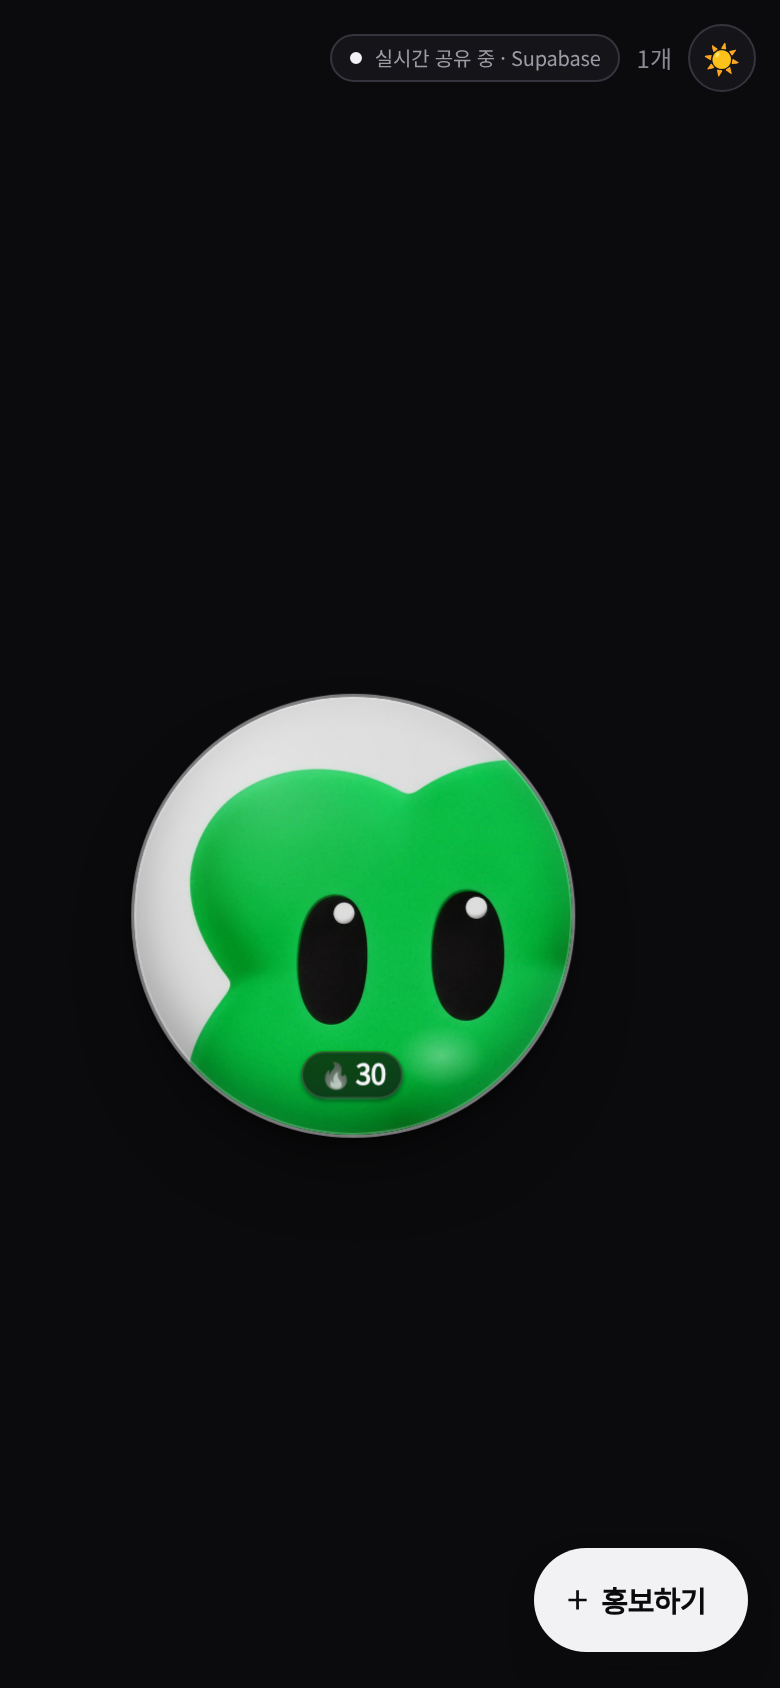
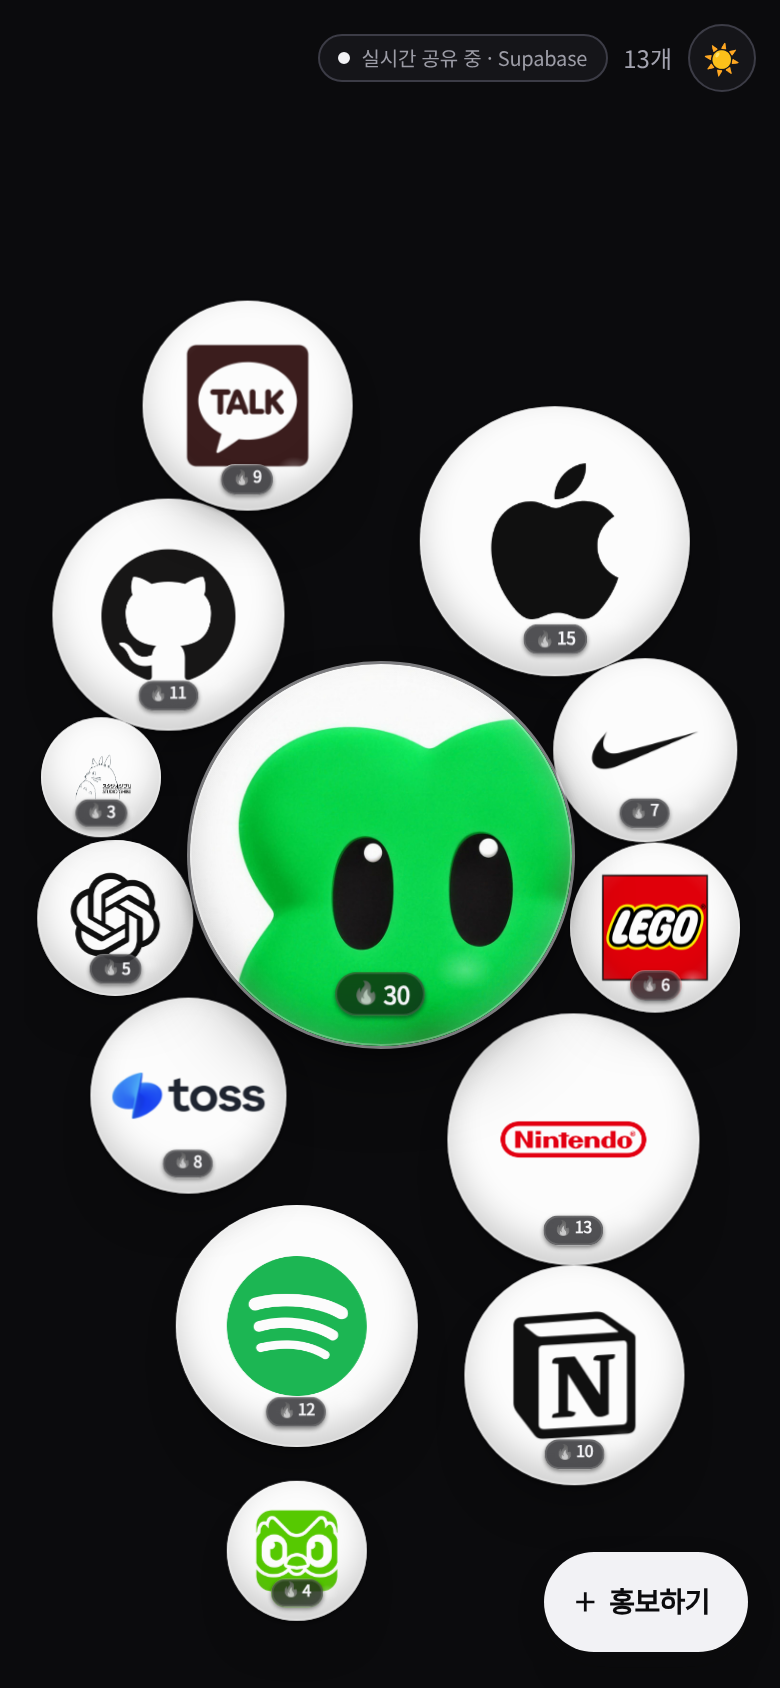
라이브 화면 캡처(라이트·다크)·README 갱신 — 부스트 비율 크기·선명한 사진·공유/업로드 정리와 검증 기록

diff --git a/README.md b/README.md
@@ -19,8 +19,9 @@
 
 - 왼쪽 위에는 아무 글자도 없습니다(제목·부스트 안내 문구 없음). 오른쪽 위에 연결 상태와 카드 개수만 작게 붙습니다.
 - 오른쪽 아래 검은 버튼은 **`+ 홍보하기`** 이고, 빈 보드에서는 가운데 **`첫 홍보하기`** 버튼이 나옵니다.
-- 보드에 올린 이미지는 **사진이 비쳐 보이는 유리 거품**이 됩니다(사진 불투명도 0.76, 마우스를 올리면 0.92).
-  거품에는 얇은 유리 림과 비눗방울 하이라이트가 있고, 그림자도 아주 옅습니다.
+- 보드에 올린 이미지는 **유리 거품**이 됩니다. 사진은 원본에 가깝게 선명하게(불투명도 `0.98`, 마우스를 올리면 `1.0`)
+  보이고, 유리는 **가장자리 링과 바깥쪽 하이라이트로만** 표현합니다(가운데를 덮는 뿌연 안개·블러 없음).
+  가장자리 띠도 px 고정이라 거품이 커져도 사진을 덜 가립니다.
 
 ### 거품을 누르면 직접 쓴 설명이 나옵니다
 
@@ -66,30 +67,54 @@
 
 ### 부스트가 거품의 크기를 정합니다
 
-거품 지름은 부스트 횟수의 **로그 곡선**(`0.46 + 0.175 × log₂(1 + 부스트)`)을 따라 커집니다.
-단계로 끊기지 않아서 **한 번 올릴 때마다 조금씩** 자라고, 많이 올린 거품은 확실히 커집니다.
-화면 면적과 거품 개수에 맞춰 전체 반지름을 한 번에 맞추므로 작은 폰에서도 화면을 벗어나지 않습니다.
+- **거품이 하나뿐이면 그 거품이 화면을 꽉 채웁니다** — 보드 짧은 변의 **86%** 지름(모바일 390×844 에서 315px).
+  화면 가운데에 놓이고, 오른쪽 아래 `+ 홍보하기` 버튼과 겹치지 않는 자리로 비켜 섭니다.
+- **둘 이상이면 가용 면적을 부스트 비율대로 나눠 갖습니다.**
+  거품 i 의 반지름은 `r = √( 채울면적 × 부스트i / 전체부스트 / π )` 이므로
+  **면적 비율 = 부스트 비율**이 됩니다(부스트가 2배인 거품은 지름이 약 1.41배).
+- 안전선: 손가락으로 누를 수 있게 최소 지름 **44px**(터치 기기)을 지키고,
+  최소선에 걸려 커진 작은 거품의 몫은 큰 거품에서 조금씩 덜어 냅니다. 화면을 넘지 않는 최대 반지름도 함께 지킵니다.
 
-| 부스트 | 지름 (모바일 390px) | 지름 (데스크톱 1440px) |
-| --- | --- | --- |
-| 1 | 약 74px | 약 152px |
-| 5 | 약 106px | 약 218px |
-| 12 | 약 129px | 약 264px |
-| 27 | 약 151px | 약 310px |
-| 42 | 약 164px | 약 336px |
-| 100+ | 약 190px | 약 390px |
+| 부스트 (전체 133 중) | 면적 비율 | 지름 (모바일 390×844) | 지름 (데스크톱 1440×900) |
+| --- | --- | --- | --- |
+| 30 | 22.6% | 약 191px | 약 383px |
+| 15 | 11.3% | 약 135px | 약 271px |
+| 10 | 7.5% | 약 110px | 약 221px |
+| 5 | 3.8% | 약 78px | 약 156px |
+| 3 | 2.3% | 약 60px | 약 121px |
 
-> 위 수치는 거품 10개가 있을 때 기준입니다. 개수가 적으면 하나하나가 조금 더 커지고,
-> 30개쯤 되면 전체가 작아져 서로 부딪히지 않게 자리를 나눕니다.
+> 위 수치는 거품 13개가 있을 때 실측값입니다. 개수가 줄면 같은 부스트라도 더 커지고,
+> 하나만 남으면 그 거품이 화면을 채웁니다.
 
 ### 캔버스는 거품이 떠다니는 물리 공간입니다
 
 - 순백(`#FFFFFF`) 캔버스가 헤더 아래 화면 전체를 채웁니다(스크롤 없음).
 - 모든 거품은 `requestAnimationFrame` 루프에서 **아주 느긋하게(초당 8–20px) 곡선으로 표류**합니다.
-- 가장자리에서는 부드럽게 튕기고, 서로 닿으면 **밀어내며** 겹쳐 쌓이지 않습니다.
+- 가장자리에서는 부드럽게 튕기고, 서로 닿으면 **비눗방울처럼 부드럽게 밀어냅니다**.
+  겹친 부분을 한 번에 다 풀지 않고 두 번에 나눠 풀며, 반발도 약하게(0.55) 줘서 딱딱하게 튀지 않습니다.
+- 맞닿는 순간 그 거품만 아주 살짝 눌리고(**최대 5%**, `scale`), 테두리 광택이 밝아졌다가 곧 돌아옵니다.
+- 오른쪽 아래 `+ 홍보하기` 버튼 위로는 떠오르지 않습니다(버튼 영역을 피해 미끄러짐).
 - 크기 변화(부스트)는 목표 반지름으로 부드럽게 이어지고, 새 거품은 살짝 작게 시작해 부풀어 오릅니다.
 - 마우스를 올리면 그 거품만 느려져서 클릭하기 편합니다(모달이 열린 동안은 전체 정지).
-- `prefers-reduced-motion: reduce` 에서는 움직이지 않고 자리만 잡습니다.
+- 손가락으로 누르는 **즉시** 살짝 눌리는 반응과 짧은 진동, 두 번 탭 확대 없음(`touch-action: manipulation`).
+- `prefers-reduced-motion: reduce` 에서는 움직이지 않고 자리만 잡습니다. 빈 보드에서는 애니메이션 루프도 쉽니다.
+
+### 상세 모달의 디테일
+
+- 제목 위 한 줄에 **순위 · 전체 개수 · 부스트 · 올린 날**(`오늘 올림` / `3일 전`, 날짜에 마우스를 올리면 `2026.11.29`)이 나옵니다.
+- 아래 **`🔗 링크 복사`** 는 `https://…/Promo-board/?p=<id>` 를 복사합니다. 그 주소로 들어오면 그 홍보의 상세가 바로 열립니다.
+- **`↗ 공유하기`** 는 기기 공유 시트(아이폰·안드로이드)를 엽니다. 공유 시트가 없는 브라우저에서는 이 버튼이 숨고 링크 복사만 남습니다.
+- 모달이 열린 동안 뒤쪽 화면은 `inert` 로 잠기고, `Tab` 은 모달 안에서만 돕니다. `Esc` 나 바깥을 누르면 닫힙니다.
+
+### 사진 올리기 (업로드)
+
+- 사진을 **고르는 순간** 줄여 둡니다 — 올릴 때 기다리지 않습니다. 올리기 창 아래에
+  `원본 1600×1200 · 12KB → 1600×1200 · 17KB` 처럼 **바꿀 크기와 용량**이 바로 보입니다.
+- 긴 변은 실시간 공유에서 **1600px**(로컬 체험 모드 900px)로 줄이고, 사진은 JPEG 0.85,
+  **투명한 로고(PNG·WebP)는 투명도를 살려 WebP 0.92** 로 저장합니다.
+- 끌어다 놓기, 눌러서 고르기, **붙여넣기(Ctrl·⌘+V)** 모두 됩니다. 고른 사진은 왼쪽 위 ✕ 로 지웁니다.
+- 올리는 동안 버튼이 스피너로 바뀌고, 두 번 눌러도 한 번만 올라갑니다(중복 제출 방지).
+- 아이폰 HEIC 처럼 브라우저가 읽지 못하는 사진은 그 자리에서 이유와 해결법을 알려 줍니다.
 
 ### 부스트는 한 번 누르면 한 칸
 
@@ -201,9 +226,13 @@ README.md             이 문서
 | --- | --- |
 | `<style>` | 순백 모노크롬 디자인, 거품/모달/반응형 |
 | `CONFIG` | Supabase URL·키, 업로드 이미지 최대 크기 |
-| `sizeFactor()` | 부스트 → 거품 반지름 계수(로그 곡선) |
-| `computeRadii()` | 화면 면적·거품 개수에 맞춘 반지름 계산 |
-| `stepMotion()` | 거품 물리: 표류·충돌·벽 반사 |
+| `computeRadii()` | 거품 1개면 화면 채우기, 2개 이상은 부스트 비율로 면적 배분 (최소 44px 터치 · 최대 반지름 안전선) |
+| `stepMotion()` | 거품 물리: 표류·부드러운 접촉(눌림)·벽 반사·버튼 회피 |
+| `refreshFabObs()` / `pushFromFab()` | `+ 홍보하기` 버튼 영역 계산 · 거품이 그 위로 뜨지 않게 밀어냄 |
+| `prepareImage()` / `compress()` | 고른 사진을 바로 줄이기 · 투명도 보존(WebP) · 용량 표시 |
+| `copyText()` / `shareUrlFor()` | `?p=<id>` 링크 복사 · 기기 공유 시트 |
+| `dateLabel()` / `fmtDate()` | `오늘 올림` · `3일 전` 같은 작성일 표시 |
+| `trapFocus()` / `setBackgroundInert()` | 모달 포커스 트랩 · 뒤쪽 화면 잠금 |
 | `render()` | 거품 생성·갱신과 초기 배치(황금각 나선) |
 | `isOwned()` / `markOwned()` | 이 브라우저에서 올린 홍보인지 판단 (`promo_board_owned_ids`) |
 | `nicknameOf()` / `rememberNickname()` | 카드의 작성자 닉네임 (DB 값 → 이 브라우저 기억 순) |
@@ -274,6 +303,22 @@ open "index.html?reset=1"
 ---
 
 ## 8. 검증 기록
+
+**밤샘 개선 — 부스트 비율 크기 · 선명한 사진 · 터치 · 업로드 · 공유** (2026-11-29, 헤드리스 Chrome — 390×844 모바일 / 1440×900 데스크톱, 라이브 Supabase)
+
+- 거품 1개: 지름 **315px = 보드 짧은 변의 86%** · 화면 가운데 · 2초 넘게 떠다닌 뒤에도 `+ 홍보하기` 와 겹침 0 · 보드 밖 이탈 0
+- 거품 13개(라이브): 면적 비율 = 부스트 비율 — 30 → 22.6% · 15 → 11.3% · 10 → 7.5% · 3 → 2.3%
+  · 최대 겹침 0.1px · 가장 작은 거품 60px(최소 44px 이상) · 보드 밖 이탈 0 · 버튼 겹침 0 · 헤더 침범 0
+- 접촉: 8초 동안 424프레임 중 66프레임에서 눌림/광택 발생, 최대 스쿼시 5% — 부드럽게 밀어내고 다시 떨어짐
+- 사진: `opacity .98`(호버 1) · 가운데 안개 그라디언트 제거 · 유리 띠 15px 고정(px 라서 큰 거품에서도 얇음)
+- 업로드: 클라우드 1600×1200 → 1600×1200 · 17KB · 로컬 900×675 · 7KB · 투명 PNG → WebP · 용량 문구 표시 · 두 번 눌러도 1건
+- 상세: `2위 · 전체 13개 중 · 부스트 15 · 오늘 올림` · `링크 복사` → 클립보드 `https://nugj12-code.github.io/Promo-board/?p=<id>` · `?p=` 딥링크로 상세가 바로 열림 · `Esc` 닫힘 · `inert` 해제 · `Tab` 14회 모두 모달 안
+- 글자 대비(WCAG): 라이트 4.66–19.67 · 다크 6.69–16.30 (본문 기준 AA 4.5 이상)
+- 콘솔 에러 0 · 4xx/5xx 0 · 실패 요청 0 — 모바일/데스크톱 × 라이트/다크 4가지 모두
+- **라이브 배포 확인** (2026-11-29, <https://nugj12-code.github.io/Promo-board/>): HTTP 200 · 배포본에 이번 변경 반영
+  · 카드 13개 · 배지 `실시간 공유 중 · Supabase` · 사진 13장 모두 로드 · `live-preview.png` · `live-preview-dark.png` 는 이 라이브 화면 캡처
+- 보드에 올린 실제 홍보 12개(닉네임 `포우미아`, 부스트 15·13·12·11·10·9·8·7·6·5·4·3):
+  Apple · Nintendo · Spotify · GitHub · Notion · Kakao · Toss · Nike · LEGO · OpenAI · Duolingo · Studio Ghibli — 기존 피클(30)은 그대로
 
 **닉네임 입력·표시 + 다크 모드** (2026-11-28, 헤드리스 Chrome — 1440×900 데스크톱 / 390×844 모바일)
 
